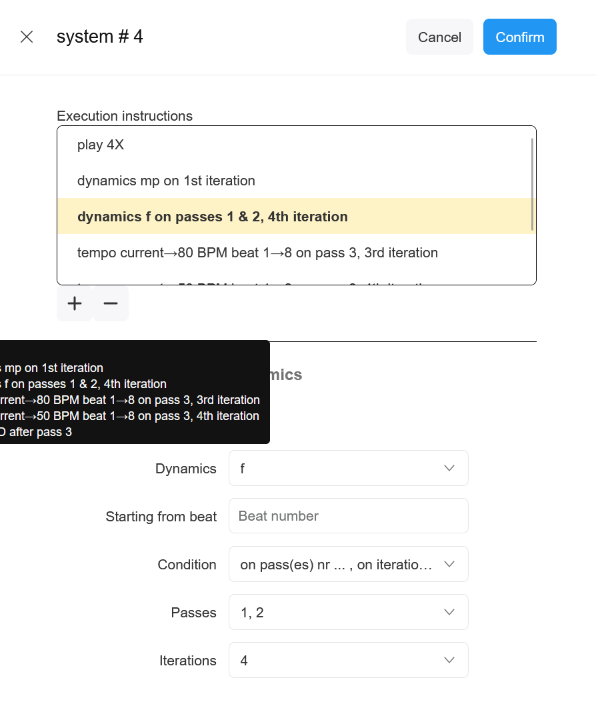
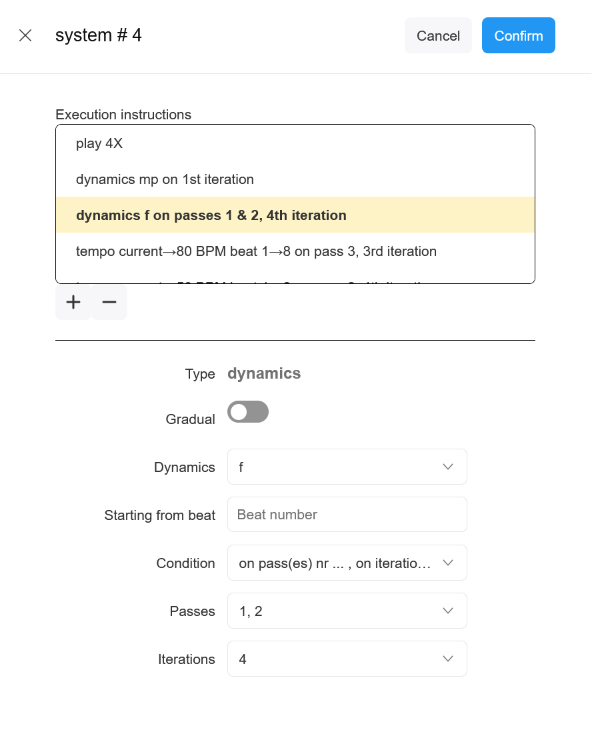
added CLAUDE instructions

diff --git a/CLAUDE/CLAUDE.execution-form.md b/CLAUDE/CLAUDE.execution-form.md
@@ -1,18 +1,15 @@
-# Execution Form — Refactoring discussion
+# Execution Form — Implementation Summary
+
+This document discusses design decisions for a complex form that lets the user create, update and delete `ExecutionItem` objects for a selected `System`.
+The form has been implemented and its design is described below.
 
 ## Context
 
 Each `System` of a `Score` can contain one or more execution items. These contain playback instructions, such as tempo, dynamics, repeats and playback sequence. The editor contains a form that can be used to add, delete and modify execution items.
  
----
-
 ## The Problem
 
-The layout of the form user friendly. However I have the feeling that the implementation is somewhat unpractical. The form currently can only handle a subset of the possible execution item types. Due to the current implementation choices, adding more item types might not be straightforward.
-
-## My Question
-
-I am looking for a second opinion about the current approach. How would you implement this form? Is there a better way to achieve the same functionality? 'Better' meaning: easier to maintain and expand. Perhaps with less code.
+`ExecutionItem` is a union type that contains 7 or more subtypes (to be precise: interfaces). Each of these interface has a different set of attributes. The challenge is to develop a form that enables the user to add and edit these different item types.
 
 ## Execution Items
 
@@ -29,5 +26,103 @@ Files `/CLAUDE/Execution-form-x.png` (x = 1, 2, 3) contain snapshots of the form
 |---|---|
 | `src/typing/execution.ts` | The type definitions of the execution item types. |
 | `src/typing/score.ts` | The definition of the `System` type, which has the attribute `execution` containing the execution items. |
-| `src/components/editor/ExecutionForm.tsx` | Generates the `ExecutionForm` | 
-| `src/components/editor/ExecutionItemForm.tsx` | Generates the `ExecutionItemForm` | 
+| `src/components/editor/ExecutionForm.tsx` | Generates the `ExecutionForm` that contains a list of all execution items of the selected `System`. | 
+| `src/components/editor/ExecutionItemForm.tsx` | Generates the `ExecutionItemForm` that lets the user fill in the attributes of the selected execution item. | 
+
+## Design concepts
+
+The execution form is built around a **per-type descriptor registry** so that adding a new item type is a localized, low-risk change.
+
+### Files
+
+| File | Responsibility |
+|------|----------------|
+| `ExecutionItemForm.tsx` | The registry, the flat form-value type, the validation schema, generic field components, and the detail form that renders one item's fields. |
+| `ExecutionForm.tsx` | The Drawer container: the editable item list (`FlowElementList`) + the detail form, plus the load/save (`toForm`/`fromForm`) orchestration. |
+| `SequenceEditor.tsx` | A custom two-pane drag-and-drop widget used only by the `sequence` item type (dnd-kit). |
+| `executionFormContext.ts` | React context exposing `(open: boolean) => void`, used to make the editor inert while the Drawer is open. |
+| `utils/executionItems.ts` | `executionItemTooltip` (long/short) and `executionItemSeqId` — the human-readable text for each item. |
+
+### Core idea: the descriptor registry
+
+`executionItemRegistry: Record<ExecutionItemType, ItemDescriptor>` holds one object per type. Each descriptor fully encapsulates that type's behavior:
+
+```ts
+interface ItemDescriptor {
+    type: ExecutionItemType
+    label: string                              // shown in the "add type" picker
+    hasIterations: boolean                     // supports per-iteration condition?
+    createDefault: () => ExecutionItemDraft    // fresh blank item
+    toForm: (item) => Partial<FormValueType>   // item  -> flat form values
+    fromForm: (form, base, ctx) => ExecutionItem // form -> item
+    Fields: (props: FieldsProps) => ReactNode  // the type-specific subform JSX
+}
+```
+
+Current types: `goto`, `loop`, `wait`, `tempo`, `dynamics`, `sequence`, `suppress`, `kempli` (order defined by `EXECUTION_TYPES`).
+
+### The flat form value
+
+All types share one **flat superset** value object, `FormValueType`. Each descriptor reads/writes only the fields relevant to its type (e.g. `tempo` uses `fromBPM`/`toBPM`; `dynamics` uses `fromDynamics`/`toDynamics`/`dynamicsPositions`). The rest of the machinery never needs to know which field belongs to which type.
+
+`ExecutionItemDraft` (the list item) is a deliberately loose interface with an `[field: string]: any` index signature plus `type?`, `seqId`, `tooltip`, `tooltipshort`. This decouples drafts from the discriminated `ExecutionItem` union and avoids cross-type property conflicts while an item is half-filled.
+
+### Validation
+
+`formModel = SchemaModel({...})` lists every field once. Conditional requirements use the `If(...)` helper, which builds a `when` validator that only enforces a rule when other fields hold given value(s) — e.g. `seconds` is required only when `type === 'wait'`, `isGradual` fields apply only to `tempo`/`dynamics`. `isValid()` merges the value onto `emptyForm` first, because `check` expects all schema keys present.
+
+### Generic field components
+
+Reusable, registry-agnostic field wrappers (consistent label width / layout): `PickerField`, `InputField`, `ToggleField`, `RangeField`, plus `numberOptions(max)` for 1..n multi-selects (beats / passes / iterations). Descriptors compose these inside their `Fields`.
+
+### Data flow
+
+```
+select item ──> ExecutionForm.updateFieldsFromSelected()
+                  └─ registry[type].toForm(item) ──> setFormValue (flat)
+                                                          │
+user edits ──> Form onChange ──> setValueChanged ──> setFormValue
+              (custom widgets call onPatch(...) instead)     │
+                                                     if valid -> setDirty(true)
+dirty flag ──> ExecutionForm.updateSelectedFromFields()
+                  └─ registry[type].fromForm(form, base, ctx)
+                     + recompute tooltip / tooltipshort
+                     -> splice back into itemList
+Confirm ──> handleSave(): filter typed items -> systemData.execution -> onSave()
+```
+
+`onPatch` is the bridge for widgets that aren't rsuite `Form.Control`s (currently the `SequenceEditor`): it merges a partial patch into the form value exactly as an rsuite change would.
+
+### Shared condition subform
+
+`ConditionForm` renders the flow conditions common to most items: **pass(es) nr…**, **every nth pass**, and (only when `hasIterations` and a `loop` item exists) **iteration(s) nr…**. The "after/on" preposition is chosen per type. It is appended after every descriptor's `Fields`.
+
+### Per-type field notes
+
+- **tempo / dynamics** — `isGradual` toggle switches between a single value (+ start beat) and a from→to range (+ beat range). `dynamics` additionally has a **Positions** `CheckPicker` (empty = all positions; stored as `DynamicsItem.positions`), mirroring `suppress`.
+- **suppress** — optional **Positions** and **On beats** check-pickers; empty means "all" (stored as `undefined`).
+- **kempli** — `double`/`off` value + optional **On beats**.
+- **sequence** — uses the custom `SequenceEditor` (see below); stores ordered `uuids` + derived `labels`.
+- **goto / loop / wait** — single field each.
+
+### SequenceEditor (sequence type only)
+
+Two-pane dnd-kit editor: a **palette** of available systems and an ordered **Sequence** pane. Drag palette → sequence to append (duplicates allowed); drag within the sequence to reorder; × to remove. Key points:
+
+- `collisionDetection={pointerWithin}` (not `closestCenter`) so a drop back onto "Available" is correctly ignored.
+- Both panes are droppables (`DROP_ZONE_ID`, `PALETTE_ZONE_ID`); `handleDragEnd` returns early on a palette-zone drop.
+- `DragOverlay` is portaled to `document.body` with `zIndex 2000` so the ghost label isn't hidden by the Drawer's portal/transform/z-index.
+- An insertion line marks where a palette item will land.
+- Pane height is controlled by `RELATIVE_SIZE` (currently `min-h-20 max-h-[30vh]`).
+
+### Non-modal Drawer + inert editor
+
+The Drawer is non-modal (`backdrop={false}`, `enforceFocus={false}`) so the user can scroll the score while building a sequence. To prevent editing the underlying `SystemNode`s, `EditorWindow` keeps an `openFormCount` and wraps content in `<div inert={openFormCount > 0}>`. `SummaryItem` toggles the count via `ExecutionFormContext` when an execution item is being edited. Inert content is skipped in hit-testing but still scrollable.
+
+### Adding a new execution-item type
+
+1. Add the type to the `ExecutionItem` union (`typing/execution.ts`) and to `EXECUTION_TYPES`.
+2. Add a descriptor to `executionItemRegistry` (`label`, `createDefault`, `toForm`, `fromForm`, `Fields`, `hasIterations`).
+3. Add any new type-specific fields to `FormValueType`, `formModel`, and `emptyForm`.
+4. Add a `case` to `executionItemTooltip` in `utils/executionItems.ts`.
+

diff --git a/CLAUDE/CLAUDE.dual-editor.md b/CLAUDE/CLAUDE.dual-editor.md
@@ -1,0 +1,61 @@
+# Dual Editor — Requirements for a new feature
+
+This document discusses the requirement for an editor with two different views on the same `Score`. 
+
+## Context
+
+I have conceived a way to reduce the amount of typing by introducing two types of shortcuts:
+1. Aggregation of positions: the possibility to write notation that applies to multiple positions.
+2. Shorthand symbols: symbols that stand for a sequence of symbols.
+
+I have implemented these in a text file format which I call the Tabuh format. You can find an example of an entire Tabuh notation file in file `frontend/CLAUDE/Tabuh notation example.tsv` and a screenshot of the same file in `frontend/CLAUDE/Tabuh notation example.png`, displaying the file with the BaliMusic font.
+
+### Position aggregation
+
+If there is no ambiguity, the Tabuh notation format allows the notation for multiple positions to be aggregated in one notation line. In that case the label at the start of the line stands for a group of positions. In the tabuh notation example file, the abbreviation `ga/ugal` stands for 'gangsa and ugal', where 'ugal' stands for position `UGAL` and 'gangsa' stands for positions `PEMADE_POLOS`, `PEMADE_SANGSIH`, `KANTILAN_POLOS` and `KANTILAN_SANGSIH`. Label `reyong13` stands for the positions `REYONG_1` and `REYONG_3`. In general, most of the `melodic` instruments can be combined in any possible way. 
+
+### Shorthand notation
+
+Some symbol modifiers can be used to create shorthand symbols. Currently only the modifier `n` is being used in this context. `n` stands for `norot` which is a specific note pattern in Balinese music. I added an extract of a notation file `frontend/CLAUDE/Norot example.tsv` and corresponding screenshot `frontend/CLAUDE/Norot example.png`. The symbols `in` and `un` in this example stand for a fixed pattern of four symbols which can be different for each position and can also differ per beat.
+ 
+### Current implementation
+
+The Tabuh Parser `frontend/src/scoreparsers/tabuhParser.ts` is currently the only part of the code that can handle the aggregation and shorthand notation. It uses two agents for this.
+- The Casting Rules Manager `frontend/src/componentlogic/castingRulesManager.ts` takes care of expanding aggregated notation into individual notations for each position.
+- The Pattern Manager `frontend/src/componentlogic/patternManager.ts` expands each shortcut symbol into a sequence of symbols ('pattern').
+
+The Tabuh Parser returns a complete `Score` object with all shorthand symbols and aggregated notations resolved.
+
+Next to this, the `System` type already has a `notationGroups` attribute of type `GroupedNotation`. This attribute contains the compact version of the notation. See `frontend/src/typing/score.ts`.
+
+## Functionality of the new feature
+
+I want the editor to enable the use of aggregated notation and the use of shorthand symbols. The concept that I have in mind is to have two views: the 'compact' view and the 'expanded' view.
+
+- The compact view should enable to write aggregated notation and to use shorthand symbols.
+- The expanded view should display the notation as it currently does: explicit notation for each position and no use of shorthand symbols.
+
+Ideally, both views should be editable. However this introduces a certain complexity because they need to remain in sync at all times. I need your advice on how to handle this. There are a couple of problematic use cases that I can think of, but there might be more.
+
+### Use cases for the expanded view
+
+- Positions that are part of an aggregation group should be clearly marked as such, for instance using group numbers, colors or braces.
+- Positions that are part of an aggregation group should be locked for editing. However it should be possible to enable ('unlock') editing for such a position.
+- If the user edits the notation of an unlocked position that is part of a group, the position should be removed from the group. This should immediately be visible.
+- The use of shorthand notation should not be possible in the expanded view.
+
+### use cases for the compact view
+
+- The label preceding a grouped notation should be comprehensive but compact. Instead of displaying all the positions of the group at the beginning of a notation line, we could perhaps use shortcuts and display the full list of positions as a tooltip.
+- It should only be possible to create 'valid' groups. I can provide a list of valid combinations.
+- Positions for which the notation is not aggregated should be displayed on a separate line, perhaps as a group containing a single instrument.
+- The user should be able to add an instrument to an existing group, even if that instrument already has a separate notation. In that case the application should give a warning that the notation of the individual instrument will be modified if the position is added to the group.
+
+### use cases for both views
+
+- Typing an invalid note (a symbol that is not allowed for the specific position of position group) should cause that note to be highlighted. My suggestion would be to use the `Lezer` parser for this. This parser is already being used by the Tabuh Parser.
+- It should not be possible to save a notation to the database if it contains invalid symbols. However it should still be possible to save such a notation to file (JSON).
+
+### specific concern
+
+The grouped notation and expanded notation are currently stored in different places in the `System` object (`staffs` and `groupedNotation` attributes). Considering that we want to keep both views in sync, it might be a better idea to have a 'single source of truth' for both. However I don't have a good idea yet if this is possible and if so how to achieve this.

diff --git a/CLAUDE/CLAUDE.virtual-editor.md b/CLAUDE/CLAUDE.virtual-editor.md
@@ -1,5 +1,4 @@
-# Virtual Editor — Conversation Summary
-
+# Virtual Editor — Implementation Summary
 ## Context
 
 This document summarises a design decision made for the Tabuh Studio application regarding the interactive editor. See `Claude.md` for full project context.